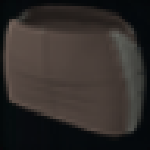
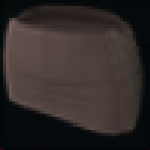
update

diff --git a/api/data.js b/api/data.js
@@ -89,7 +89,7 @@ export default function handler(req, res) {
                     green:  { atk: 38650, bal: 76, crit: 137, force: 4400, speed: 47, str: 110, agi: 60, int: 148, wil: 80},
                     blue:   { atk: 39900, bal: 77, crit: 138, force: 4550, speed: 47, str: 110, agi: 60, int: 148, wil: 80},
                     purple: { atk: 41150, bal: 78, crit: 139, force: 4700, speed: 47, str: 110, agi: 60, int: 148, wil: 80},
-                    orange: { atk: 7 },
+                    orange: { atk: 42400, bal: 79, crit: 140, force: 4850, speed: 47, str: 110, agi: 60, int: 148, wil: 80},
                     red:    { atk: 9 },
                 },
                 refine: {
@@ -183,6 +183,19 @@ export default function handler(req, res) {
 
         hand: [
             {
+                name: "埃柳護手", img: "/gear/hand/2.png", set: "埃柳",
+                rarityStats: {
+                    white:  { force: 900 , def:4888, str: 225, agi: 113, int: 304, wil: 100 },
+                    green:  { force: 945 , def:5118, str: 225, agi: 113, int: 304, wil: 100 },
+                    blue:   { force: 990 , def:5348, str: 225, agi: 113, int: 304, wil: 100 },
+                    purple: { force: 1035, def:5578, str: 225, agi: 113, int: 304, wil: 100 },
+                    orange: { force: 1080, def:5808, str: 225, agi: 113, int: 304, wil: 100 },
+                    red:    { force: 1125, def:6158, str: 225, agi: 113, int: 304, wil: 100 },
+                },
+                refine: { def:  { max: 479, step: { plus: 50, minus: 10} }, }
+            },
+
+            {
                 name: "兀恩雅護手", img: "/gear/hand/1.png", set: "兀恩雅",
                 rarityStats: {
                     white:  { force: 750, def:4338, str: 225, agi: 113, int: 304, wil: 100 },
@@ -238,6 +251,32 @@ export default function handler(req, res) {
         ],
 
         ring: [
+            { name: "必滅枷鎖", img: "/accessory/ring/125-1.png", stats: { bal: 9, crit: 8, str: 140, agi:70, int: 180, wil: 80 },
+              upgrade: { 0:{},
+                         1 :{atk:16,pen: 7},2:{atk:32, pen:13},3:{atk:48, pen:20},4:{atk:64, pen:26},5 :{atk:80, pen:33},
+                         6 :{atk:96,pen:39},7:{atk:112,pen:46},8:{atk:128,pen:52},9:{atk:144,pen:59},10:{atk:160,pen:65},
+                         11:{atk:176,pen:72} ,12:{atk:192,pen:78 },13:{atk:208,pen:85} ,14:{atk:224,pen:91 },15:{atk:240,pen:98 }, 
+                         16:{atk:256,pen:104},17:{atk:272,pen:111},18:{atk:288,pen:117},19:{atk:304,pen:124},20:{atk:320,pen:130},
+                        }
+            },
+
+            { name: "沉默的證明", img: "/accessory/ring/120-2.png", stats: { bal:8, crit: 6, str: 140, agi: 70, int: 180, wil: 80 } ,
+              upgrade: { 0 :{}, 
+                         1 :{atk:15, pen: 6}, 2:{atk:30,pen: 11}, 3:{atk:45,pen: 17}, 4:{atk:60,pen:22},   5:{atk:75, pen:28},
+                         6 :{atk:90, pen:33}, 7:{atk:105,pen:39}, 8:{atk:120,pen:44}, 9:{atk:135,pen:50}, 10:{atk:150,pen:55},
+                         11:{atk:165,pen:61},12:{atk:180,pen:66},13:{atk:195,pen:72},14:{atk:210,pen:77}, 15:{atk:225,pen:83}, 
+                         16:{atk:240,pen:88},17:{atk:255,pen:94},18:{atk:270,pen:99},19:{atk:285,pen:105},20:{atk:300,pen:110},
+                        },
+            },
+            { name: "寂靜的證明", img: "/accessory/ring/120-1.png", stats: { bal:6, crit: 8, str: 140, agi: 70, int: 180, wil: 80 } ,
+              upgrade: { 0 :{}, 
+                         1 :{atk:15, pen: 6}, 2:{atk:30,pen: 11}, 3:{atk:45,pen: 17}, 4:{atk:60,pen:22},   5:{atk:75, pen:28},
+                         6 :{atk:90, pen:33}, 7:{atk:105,pen:39}, 8:{atk:120,pen:44}, 9:{atk:135,pen:50}, 10:{atk:150,pen:55},
+                         11:{atk:165,pen:61},12:{atk:180,pen:66},13:{atk:195,pen:72},14:{atk:210,pen:77}, 15:{atk:225,pen:83}, 
+                         16:{atk:240,pen:88},17:{atk:255,pen:94},18:{atk:270,pen:99},19:{atk:285,pen:105},20:{atk:300,pen:110},
+                        },
+            },
+            
             { name: "暗之暈", img: "/accessory/ring/115-1.png", stats: { bal: 5,  crit: 6, str: 140, agi: 70, int: 180, wil: 80 },
             upgrade: { 0:{}, 20:{atk:280,pen:90} } },
             { name: "暗之影", img: "/accessory/ring/115-2.png", stats: { bal: 5,  crit: 6, str: 140, agi: 70, int: 180, wil: 80 },
@@ -245,6 +284,32 @@ export default function handler(req, res) {
         ],
 
         ring2: [
+            { name: "必滅枷鎖", img: "/accessory/ring/125-1.png", stats: { bal: 9, crit: 8, str: 140, agi:70, int: 180, wil: 80 },
+              upgrade: { 0:{},
+                         1 :{atk:16,pen: 7},2:{atk:32, pen:13},3:{atk:48, pen:20},4:{atk:64, pen:26},5 :{atk:80, pen:33},
+                         6 :{atk:96,pen:39},7:{atk:112,pen:46},8:{atk:128,pen:52},9:{atk:144,pen:59},10:{atk:160,pen:65},
+                         11:{atk:176,pen:72} ,12:{atk:192,pen:78 },13:{atk:208,pen:85} ,14:{atk:224,pen:91 },15:{atk:240,pen:98 }, 
+                         16:{atk:256,pen:104},17:{atk:272,pen:111},18:{atk:288,pen:117},19:{atk:304,pen:124},20:{atk:320,pen:130},
+                        }
+            },
+
+            { name: "沉默的證明", img: "/accessory/ring/120-2.png", stats: { bal:8, crit: 6, str: 140, agi: 70, int: 180, wil: 80 } ,
+              upgrade: { 0 :{}, 
+                         1 :{atk:15, pen: 6}, 2:{atk:30,pen: 11}, 3:{atk:45,pen: 17}, 4:{atk:60,pen:22},   5:{atk:75, pen:28},
+                         6 :{atk:90, pen:33}, 7:{atk:105,pen:39}, 8:{atk:120,pen:44}, 9:{atk:135,pen:50}, 10:{atk:150,pen:55},
+                         11:{atk:165,pen:61},12:{atk:180,pen:66},13:{atk:195,pen:72},14:{atk:210,pen:77}, 15:{atk:225,pen:83}, 
+                         16:{atk:240,pen:88},17:{atk:255,pen:94},18:{atk:270,pen:99},19:{atk:285,pen:105},20:{atk:300,pen:110},
+                        },
+            },
+            { name: "寂靜的證明", img: "/accessory/ring/120-1.png", stats: { bal:6, crit: 8, str: 140, agi: 70, int: 180, wil: 80 } ,
+              upgrade: { 0 :{}, 
+                         1 :{atk:15, pen: 6}, 2:{atk:30,pen: 11}, 3:{atk:45,pen: 17}, 4:{atk:60,pen:22},   5:{atk:75, pen:28},
+                         6 :{atk:90, pen:33}, 7:{atk:105,pen:39}, 8:{atk:120,pen:44}, 9:{atk:135,pen:50}, 10:{atk:150,pen:55},
+                         11:{atk:165,pen:61},12:{atk:180,pen:66},13:{atk:195,pen:72},14:{atk:210,pen:77}, 15:{atk:225,pen:83}, 
+                         16:{atk:240,pen:88},17:{atk:255,pen:94},18:{atk:270,pen:99},19:{atk:285,pen:105},20:{atk:300,pen:110},
+                        },
+            },
+
             { name: "暗之暈", img: "/accessory/ring/115-1.png", stats: { bal: 5,  crit: 6, str: 140, agi: 70, int: 180, wil: 80 },
             upgrade: { 0:{}, 20:{atk:280,pen:90} } },
             { name: "暗之影", img: "/accessory/ring/115-2.png", stats: { bal: 5,  crit: 6, str: 140, agi: 70, int: 180, wil: 80 },
@@ -270,6 +335,8 @@ export default function handler(req, res) {
 
         compass: [
             { name: "墮落者的完整銀輪", img: "/accessory/compass/8.png", stats: { atk: 2000 , crit: 10 } },
+            { name: "墮落者的閃亮銀輪", img: "/accessory/compass/7.png", stats: { atk: 1000 , crit: 7 } },
+            { name: "墮落者的銀輪"    , img: "/accessory/compass/6.png", stats: { atk: 1000 , crit: 7 } },
             { name: "墮落者的生鏽銀輪", img: "/accessory/compass/5.png", stats: { atk: 1000 , crit: 5  } }, 
         ],
 
@@ -289,6 +356,7 @@ export default function handler(req, res) {
         "鬥魂":     { type: "end",   slots: ["head","leg"],      stats: { atk: 285, def: 280, crit: 8 } },
         "進擊":     { type: "end",   slots: ["head","leg"],      stats: { atk: 285, def: 280, crit: 5 } },
         //手腳字首
+        "渲染的":   { type: "top",   slots: ["hand","feet"],     stats: { atk: 145, def: 300, speed: 2, crit: 6, bal: 7 } } ,
         "優雅的":   { type: "top",   slots: ["hand","feet"],     stats: { atk: 145, def: 300, speed: 2, crit: 4, bal: 5 } } ,
         "悲痛的":   { type: "top",   slots: ["hand","feet"],     stats: { atk: 145, def: 300, speed: 2, crit: 3, bal: 4 } } ,
         //手腳字尾
@@ -302,6 +370,7 @@ export default function handler(req, res) {
         //胸部字尾
         "試煉":     { type: "end",   slots: ["chest"],             stats: { def: 120, crit: 12, bal: -1 } } ,
         "悲嘆":     { type: "end",   slots: ["chest"],             stats: { def: 120, crit: 9, bal: -1 } } ,
+        "熱心":     { type: "end",   slots: ["chest","leg"],       stats: { atk:282, def: -370, bal: 5 } } ,
         //書字首
         "虛無的":   { type: "top",   slots: ["totem"],             stats: { speed: 1, def: 1000, crit: 4 } } ,
         "勝者的":   { type: "top",   slots: ["totem"],             stats: { speed: 1, def: 800, crit: 2 } } ,
@@ -315,15 +384,20 @@ export default function handler(req, res) {
         "強烈的":   { type: "top",   slots: ["belt"],              stats: { speed: 1, crit: 3, bal: 1 } } ,
         //腰帶字尾
         //飾品字首
+        "狂風的":   { type: "top",   slots: ["earring","necklace","belt","ring","ring2","jewelry"],stats: { atk:700,speed:5, crit:-4, bal:-4 } } ,
         "隱藏的":   { type: "top",   slots: ["earring","necklace"], stats: { atk: 700, speed: 1 } },
         "扭曲的":   { type: "top",   slots: ["earring","necklace"], stats: { atk: 450, speed: 1 } },
         "深刻的":   { type: "top",   slots: ["earring","necklace"], stats: { atk: 200, speed: 1 } },
         //飾品字尾
+        "波動":     { type: "end",   slots: ["earring","necklace","ring","ring2","jewelry"],stats: { atk:300 } } ,
+        "思念":     { type: "end",   slots: ["earring","necklace","ring","ring2","jewelry"],stats: { bal:1, def: 500 } } ,
         "熱情":     { type: "end",   slots: ["earring","necklace","ring","ring2","jewelry"],stats: { def: 200 } } ,
         //戒指字首
-        "對立的":   { type: "top",   slots: ["ring","ring2"],       stats: { bal: 9 } },
-        "追蹤者的": { type: "top",   slots: ["ring","ring2"],       stats: { bal: 7 } },
+        "徬徨的":   { type: "top",   slots: ["ring","ring2"],       stats: { bal: 12 } },
+        "對立的":   { type: "top",   slots: ["ring","ring2"],       stats: { bal: 9  } },
+        "追蹤者的": { type: "top",   slots: ["ring","ring2"],       stats: { bal: 7  } },
         //戒指字尾
+        "命運":     { type: "end",   slots: ["ring","ring2","belt"],       stats: { atk: 400, bal: 4, crit: 4 } } ,
         "神秘":     { type: "end",   slots: ["ring","ring2"],       stats: { atk: 200, bal: 2, crit: 2 } } ,
         //胸針字首
         "超越的":   { type: "top",   slots: ["jewelry"],            stats: { atk: 600, speed: 1, crit: 2, bal:2, force: 150 } },
@@ -338,10 +412,16 @@ export default function handler(req, res) {
         //銀輪字尾
         "衝突":     { type: "end",   slots: ["compass"],            stats: { crit: 2 } },
         //精靈石
+        "暴擊+3":   { type: "stone", 
+                      slots: ["earring","necklace","weapon","totem","belt","jewelry","ring","ring2"], stats: { crit: 3 } },
+        "平衡+3":   { type: "stone", 
+                      slots: ["earring","necklace","weapon","totem","belt","jewelry","ring","ring2"], stats: { bal: 3 } },
         "暴擊+2":   { type: "stone", 
                       slots: ["earring","necklace","weapon","totem","belt","jewelry","ring","ring2"], stats: { crit: 2 } },
         "平衡+2":   { type: "stone", 
                       slots: ["earring","necklace","weapon","totem","belt","jewelry","ring","ring2"], stats: { bal: 2 } },
+        "攻速+1":   { type: "stone", 
+                      slots: ["earring","necklace","weapon","totem","belt","jewelry","ring","ring2"], stats: { speed: 1 } },
         },
 
         setDb: { 
@@ -352,6 +432,10 @@ export default function handler(req, res) {
         },
 
         pairDb: { 
+        "120套裝": { 
+            slots: [ "ring", "ring2"],
+            items: [ "沉默的證明", "寂靜的證明"], 
+            bonus: { crit: 3 } },
         "115套裝": { 
             slots: [ "ring", "ring2"],
             items: [ "暗之暈", "暗之影"], 

diff --git a/public/index.html b/public/index.html
@@ -136,10 +136,10 @@
             min-height: 0;
         }
 
-        .enchant-part:nth-child(1) { flex-basis: 20%; }  /* 裝備本身 */
-        .enchant-part:nth-child(2) { flex-basis: 15%; }  /* 字首 */
-        .enchant-part:nth-child(3) { flex-basis: 15%; }  /* 字尾 */
-        .enchant-part:nth-child(4) { flex-basis: 5%; }  /* 精靈石 */
+        .enchant-part:nth-child(1) { flex-basis: 23%; }  /* 裝備本身 */
+        .enchant-part:nth-child(2) { flex-basis: 17%; }  /* 字首 */
+        .enchant-part:nth-child(3) { flex-basis: 17%; }  /* 字尾 */
+        .enchant-part:nth-child(4) { flex-basis: 3%; }  /* 精靈石 */
 
         /*附魔資訊黑底框參數*/
         .enchant-row {
@@ -708,7 +708,8 @@
         { name: "無法遵循的預言",    require: { atk: 57620, def: 33530, crit: 300, bal: 160, force: 7450, pen: 315 } },
         { name: "遺忘正義的大教堂",  require: { atk: 58120, def: 34250, crit: 312, bal: 168, force: 7550, pen: 330 } },
         { name: "豐饒之森",         require: { atk: 60120, def: 36250, crit: 322, bal: 178, force: 7750, pen: 350 } },
-        { name: "天地交會之處",     require: { atk: 63120, def: 37750, crit: 337, bal: 190, force: 8200, pen: 370 } },
+        { name: "天地交會之處",      require: { atk: 63120, def: 37750, crit: 337, bal: 190, force: 8200, pen: 370 } },
+        { name: "黃金樹丘陵",        require: { atk: 66120, def: 39750, crit: 354, bal: 202, force: 8650, pen: 390 } },
     ];
 
     const labels = { atk:'攻擊力', def:'防禦力', crit:'暴擊率', bal:'平衡', force:'追加傷害', 